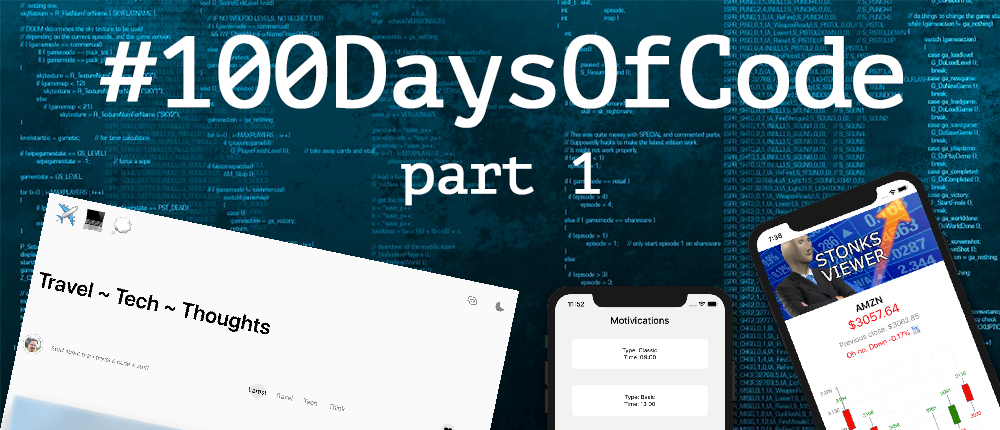
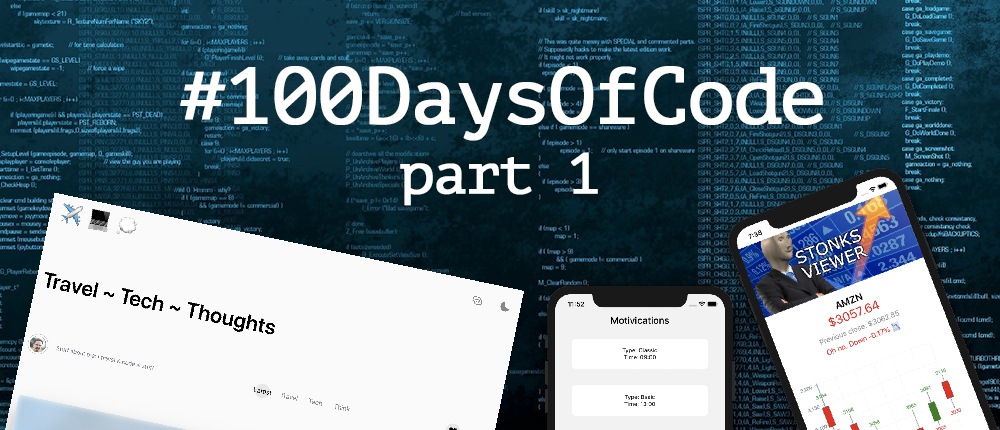
Content updates

diff --git a/gatsby-config.js b/gatsby-config.js
@@ -1,35 +1,31 @@
 module.exports = {
   siteMetadata: {
-    title: `Travel ~ Tech ~ Thoughts`,
+    title: `Tech A Break`,
     name: `Matej Navara`,
-    siteUrl: `https://novela.narative.co`,
+    siteUrl: `https://techabreak.blog`,
     description: `This is my description that will be used in the meta tags and important for search results`,
     hero: {
-      heading: `Travel ~ Tech ~ Thoughts`,
-      maxWidth: 652,
+      heading: `Travel ~ Tech ~ Think`,
+      maxWidth: 652
     },
     social: [
       {
         name: `twitter`,
-        url: `https://twitter.com/narative`,
+        url: `https://twitter.com/matejnavara`
       },
       {
         name: `github`,
-        url: `https://github.com/narative`,
+        url: `https://github.com/matejnavara`
       },
       {
         name: `instagram`,
-        url: `https://instagram.com/narative.co`,
+        url: `https://instagram.com/matejnavara`
       },
       {
         name: `linkedin`,
-        url: `https://www.linkedin.com/company/narative/`,
-      },
-      {
-        name: `dribbble`,
-        url: `https://dribbble.com/narativestudio`,
-      },
-    ],
+        url: `https://www.linkedin.com/matejnavara/`
+      }
+    ]
   },
   plugins: [
     {
@@ -40,10 +36,10 @@ module.exports = {
         basePath: "/",
         authorsPage: false,
         sources: {
-          local: true,
+          local: true
           // contentful: true,
-        },
-      },
+        }
+      }
     },
     {
       resolve: `gatsby-plugin-manifest`,
@@ -54,12 +50,12 @@ module.exports = {
         background_color: `#fff`,
         theme_color: `#fff`,
         display: `standalone`,
-        icon: `src/assets/favicon.png`,
-      },
+        icon: `src/assets/favicon.png`
+      }
     },
     {
       resolve: `gatsby-plugin-netlify-cms`,
-      options: {},
-    },
-  ],
+      options: {}
+    }
+  ]
 };

diff --git a/content/posts/2021-04-08_Sailing-Raja-Ampat/index.md b/content/posts/2021-04-08_Sailing-Raja-Ampat/index.md
@@ -1,10 +1,10 @@
 ---
-title: Sailing Raja Ampat
+title: RAJA AMPAT. The Last Paradise.
 author: Travel
 category: Travel
 date: 2021-04-08
 excerpt: Sailing the empty seas of Raja Ampat for 8 days.
-hero: ./images/hero.jpg
+hero: ./images/cover.jpg
 ---
 
 ## Intro

diff --git a/content/posts/2021-04-01_Why-Write/index.md b/content/posts/2021-04-01_Why-Write/index.md
@@ -4,7 +4,7 @@ author: Think
 category: Think
 date: 2021-03-31
 excerpt: Because X, Y & Z.
-hero: ./images/hero.jpg
+hero: ./images/cover.jpg
 ---
 
 My first thought.
